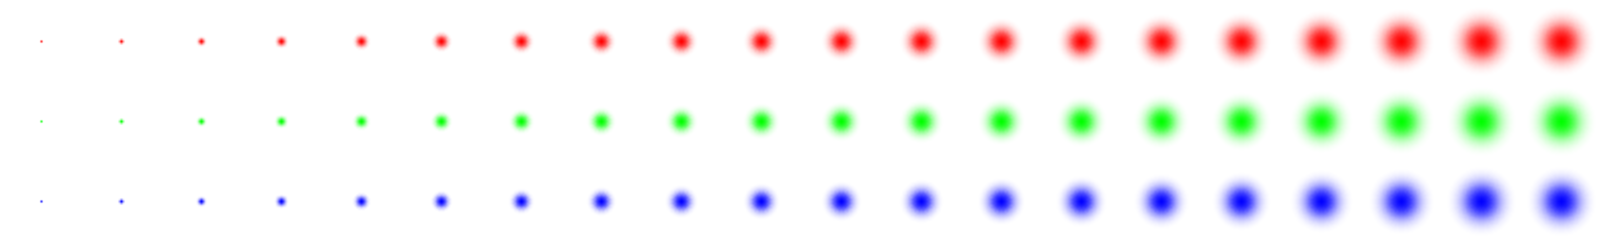
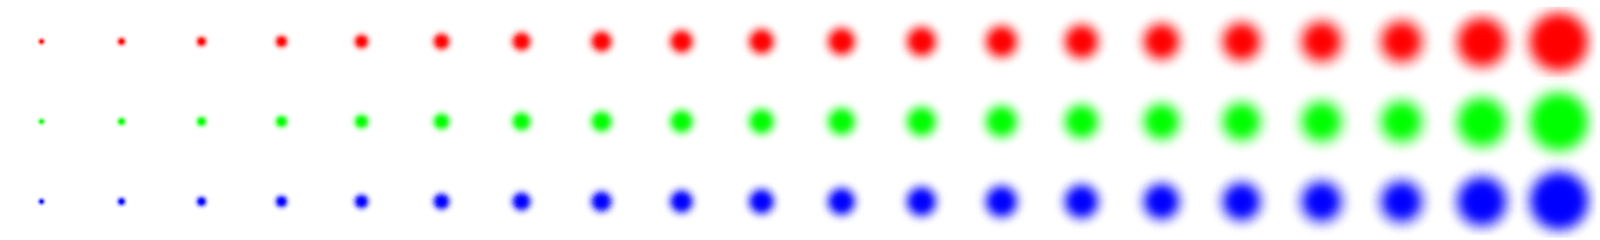
Bigger particles and spped pcap
- Particles are bigger. So they are easier to see.
- Blue particles were changed to white, so they are easier to see.
- The oipgui has a new option -s for the setting the speed of the pcap
  file.
- An -s value of 1000 is normal, 100 is 10x and 10 is 100x

diff --git a/oipgui.cpp b/oipgui.cpp
@@ -37,12 +37,13 @@
 #include "capreader.h"
 using namespace std;
 
-#define OPTSIZE 3
+#define OPTSIZE 4
 const char* validopts[OPTSIZE][4] = {
 	/*short, long, description, required*/
 	{"s", "server", "The hostname or ip address of the server.",NULL},
 	{"p", "port", "The port to connect to. Defaults to 12751.",NULL},
-	{"f", "filter", "The libpcap filter to apply to the stream.",NULL}
+	{"f", "filter", "The libpcap filter to apply to the stream.",NULL},
+	{"e", "speed", "How fast to read the pcap file. 1000 is normal, 100 is 10x, 10 is 100x, 1 is 1000x",NULL}
 };
 
 const char* optlookup(const char * o)
@@ -535,10 +536,20 @@ int main(int argc, char* argv[])
 		if (packetlist)
 		{
 			packetlist->copydata(histo);
-			packetlist->dumpdata(pm);
+			//packetlist->dumpdata(pm);
+            int numb;
+            istringstream ( opts["speed"] ) >> numb;
+			packetlist->dumpdata(pm, numb);
 		}
 		pm.process(dt);
+
+        // Black background
 		SDL_FillRect(screen, NULL, 0);
+
+        // White background
+		//SDL_FillRect(screen, NULL, 4294967295);
+        
+       
 		if (packetlist)
 			histo.draw(0, screen->h - chartheight, screen);
 		pm.draw(screen);

diff --git a/capreader.cpp b/capreader.cpp
@@ -43,18 +43,26 @@ capreader::~capreader()
 		pcap_close(handle);
 }
 
-bool capreader::dumpdata(packetsink& ps)
+//bool capreader::dumpdata(packetsink& ps)
+bool capreader::dumpdata(packetsink& ps, int speed)
 {
 	//we do these in reverse order so that peek will work
 	
 	// step 2. actually dump it
-	bool ret = packetmanager::dumpdata(ps);	
+	//bool ret = packetmanager::dumpdata(ps);	
+	bool ret = packetmanager::dumpdata(ps, speed);	
 	
 	//step 1. load the data
 	const struct sniff_ethernet *ethernet;
 	const struct sniff_ip*ip = NULL;
-	current += (SDL_GetTicks()/1000.0 - ti) * rate;
-	ti = SDL_GetTicks()/1000.0;
+    // Normal
+	//current += (SDL_GetTicks()/1000.0 - ti) * rate;
+	//ti = SDL_GetTicks()/1000.0;
+    
+    // 100x?
+	current += (SDL_GetTicks()/speed - ti) * rate;
+	ti = SDL_GetTicks()/speed;
+
 	double stamp = TVT(header->ts);
 	while (result == 1 && current > (stamp - start))
 	{	

diff --git a/clientmanager.cpp b/clientmanager.cpp
@@ -156,9 +156,11 @@ int clientmanager::serverthread(void* d)
 				datapacket dp(data);
 				dp.setid((*i)->sid);
 				bool moredata;
+                int speed;
 				do
 				{
-					moredata = (*i)->dataset.dumpdata(dp);
+					//moredata = (*i)->dataset.dumpdata(dp);
+					moredata = (*i)->dataset.dumpdata(dp, speed);
 					//encrypt the data 
 					aes.encrypt(data, dp.paddedsize());
 					sendto(listen, data, dp.paddedsize(), 0, (struct sockaddr*)&addr, sizeof(addr));

diff --git a/packetmanager.h b/packetmanager.h
@@ -74,7 +74,8 @@ public:
 	virtual ~packetmanager() {SDL_DestroyMutex(packetlock);}
 
 	bool addpacket(unsigned int s, unsigned int d, unsigned int c, unsigned int size);
-	virtual bool dumpdata(packetsink& ); 
+    //virtual bool dumpdata(packetsink& ); 
+	virtual bool dumpdata(packetsink&, int); 
 	void copydata(packetpeek& );
 	int size() {return count;}
 	bool empty() {return packets.begin() == packets.end();}

diff --git a/packetmanager.cpp b/packetmanager.cpp
@@ -48,7 +48,8 @@ bool packetmanager::addpacket(unsigned int s, unsigned int d, unsigned int c, un
 /*
  * dumps all the accumulated packets into a packetsink object
  */
-bool packetmanager::dumpdata(packetsink& ps)
+//bool packetmanager::dumpdata(packetsink& ps)
+bool packetmanager::dumpdata(packetsink& ps, int speed)
 {
     bool hasroom=true;
     SDL_mutexP(packetlock);

diff --git a/particle.cpp b/particle.cpp
@@ -40,7 +40,8 @@ void particle::draw(SDL_Surface*s)
 	move();
 
 	//grab the available images
-	SDL_Surface* circles = image("particles.png");
+    //SDL_Surface* circles = image("particles.png");
+	SDL_Surface* circles = image("particles-dark-background.png");
 	SDL_Rect src, dst;
 	src.x = size * PSIZE;//thus valid values for size lie between 0 and 1
 	Uint8 r,g,b;

diff --git a/chart.h b/chart.h
@@ -62,7 +62,8 @@ private:
 	void scroll();
 
 public:
-	chart(const char* u = "bit", Uint32 c = 0x00005fff);
+	//chart(const char* u = "bit", Uint32 c = 0x00005fff);
+	chart(const char* u = "bit", Uint32 c = 0x0000ffff);
 	~chart();
 
 	void draw(int x, int y, SDL_Surface* s);

diff --git a/capreader.h b/capreader.h
@@ -35,7 +35,8 @@ public:
 	capreader(const char* file);
 	~capreader();
 
-	bool dumpdata(packetsink&);
+	//bool dumpdata(packetsink&);
+	bool dumpdata(packetsink&, int speed );
 	const char* error() { return errbuf;}
 
 	bool eof() { return result == -2;}
